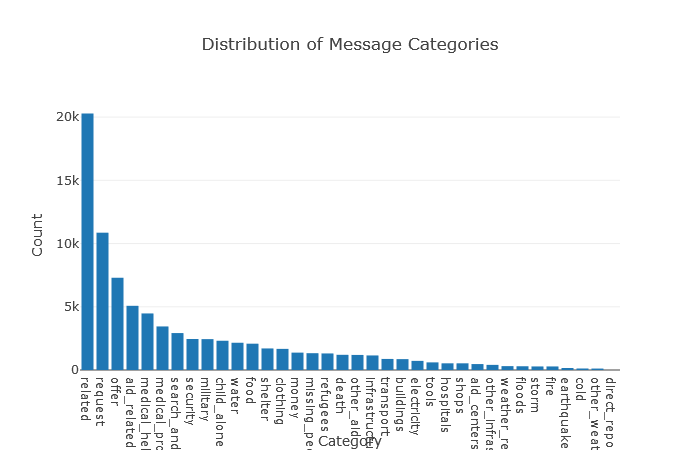
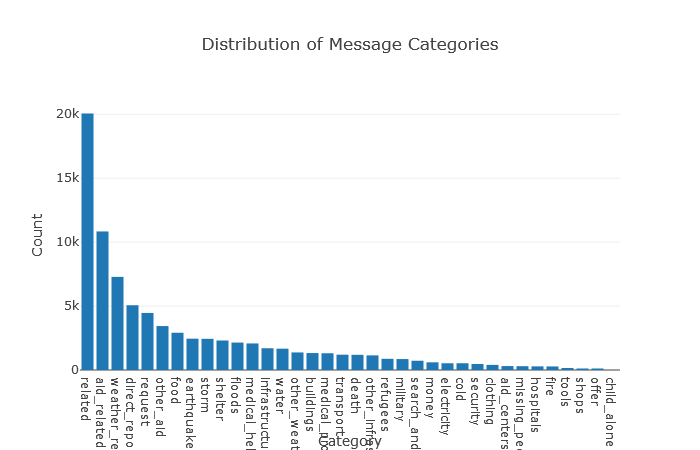
Improved data cleanup
Clean binary values for categories
Exclude more duplicates and meaningless data
Tidy up display

diff --git a/data/process_data.py b/data/process_data.py
@@ -43,14 +43,23 @@ def clean_data(df):
         
         # convert column from string to numeric
         categories[column] = pd.to_numeric(categories[column])
+    
+    # replace any integers > 1 with 1
+    categories.replace([2, 3, 4, 5, 6, 7, 8, 9], 1, inplace=True)
 
     df.drop(columns="categories", inplace=True)
 
     # concatenate the original dataframe with the new `categories` dataframe
     df = pd.concat([df, categories], axis=1)
 
-    # drop duplicates
+    # drop complete data duplicates
     df = df[~df.duplicated(keep="first")]
+
+    # drop message duplicates
+    df = df[~df.message.duplicated(keep="last")]
+
+    # drop corrupted messages
+    df = df[~(df.message == "#NAME?")]
     
     return df
 

diff --git a/app/run.py b/app/run.py
@@ -76,7 +76,7 @@ def index():
         {
             'data': [
                 Bar(
-                    x=cat_names,
+                    x=cat_counts.index,
                     y=cat_counts
                 )
             ],

diff --git a/README.md b/README.md
@@ -14,7 +14,7 @@
 
 ## Instructions <a name="instructions"></a>
 
-This project requires Python 3.x and all the libraries found in the [requirements.txt](requirements.txt) file.
+This project requires Python 3.x and the libraries found in the [requirements.txt](requirements.txt) file.
 
 1. Run the following commands in the project's root directory to set up your database and model.
 
@@ -31,7 +31,28 @@ This project requires Python 3.x and all the libraries found in the [requirement
 
 ## Results <a name="results"></a>
 
-Message are categorised into none, one or more of the following 36 categories: 
+### Data processing
+
+* Combine message and category data sources
+* Split categories into separate category columns with binary values (Note some of the training data had 2s which I modifed to 1s)
+* Remove duplicated messages
+* Remove meaningless messages (There is a #NAME? in the training data which looks like a spreadsheet error)
+* Save processed data
+
+### Classifier training
+
+* Load processed data
+* Clean, normalize, tokenize and lemmatize words
+* Vectorize word counts
+* Transform to a TF-IDF representation
+* Use a Random Forest classifier within a multi-output strategy
+* Perform Grid Search cross-validation to tune the hyperparameters
+* Fit, evaluate and then save the model
+
+
+### Web app
+
+Inputted messages are categorised into none, one or more of the following 36 categories: 
 
 | | | | | | |
 | --- | --- | --- | --- | --- | --- |
@@ -43,6 +64,8 @@ Message are categorised into none, one or more of the following 36 categories:
 |storm|fire|earthquake|cold|other_weather|direct_report|
 
 ![Distribution of Message Categories](plot_categories.png)
+
+Some of the categories were much more prevalent in the training data so we are likely to have more reliable results for these than some of the less frequently occuring ones. None of the training data was flagged with "child_alone" so we cannot currently use the model to predict this category.
 
 ![Distribution of Message Genres](plot_genres.png)
 
